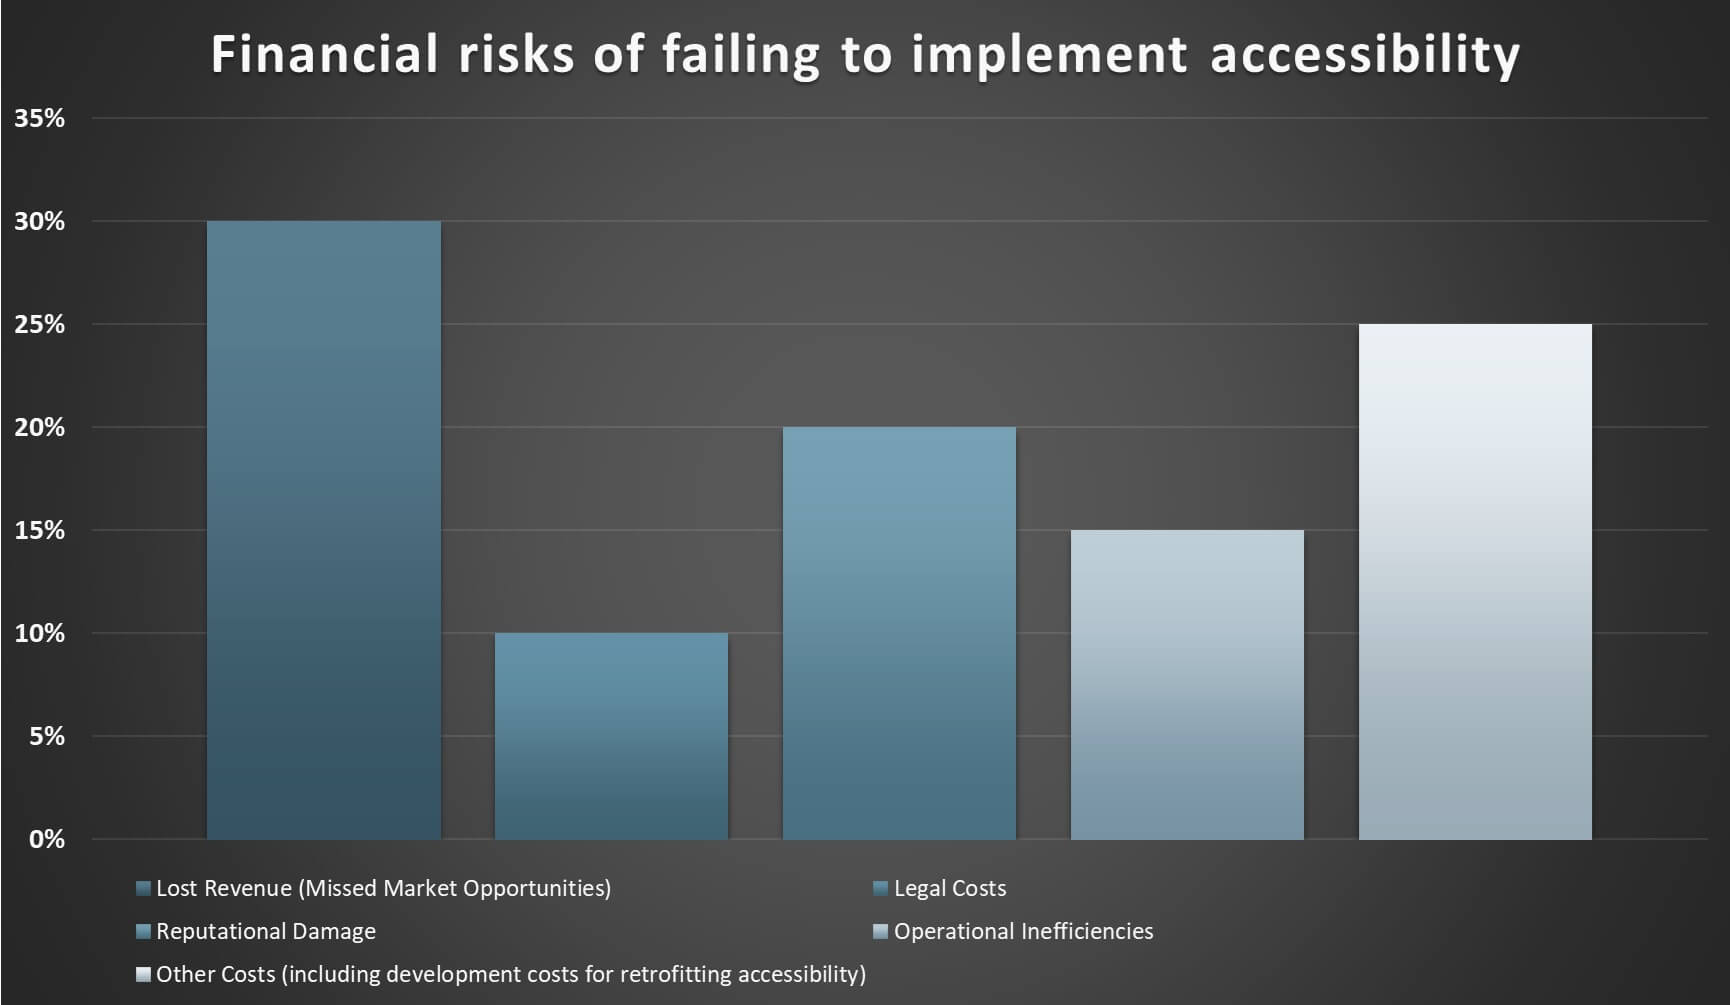
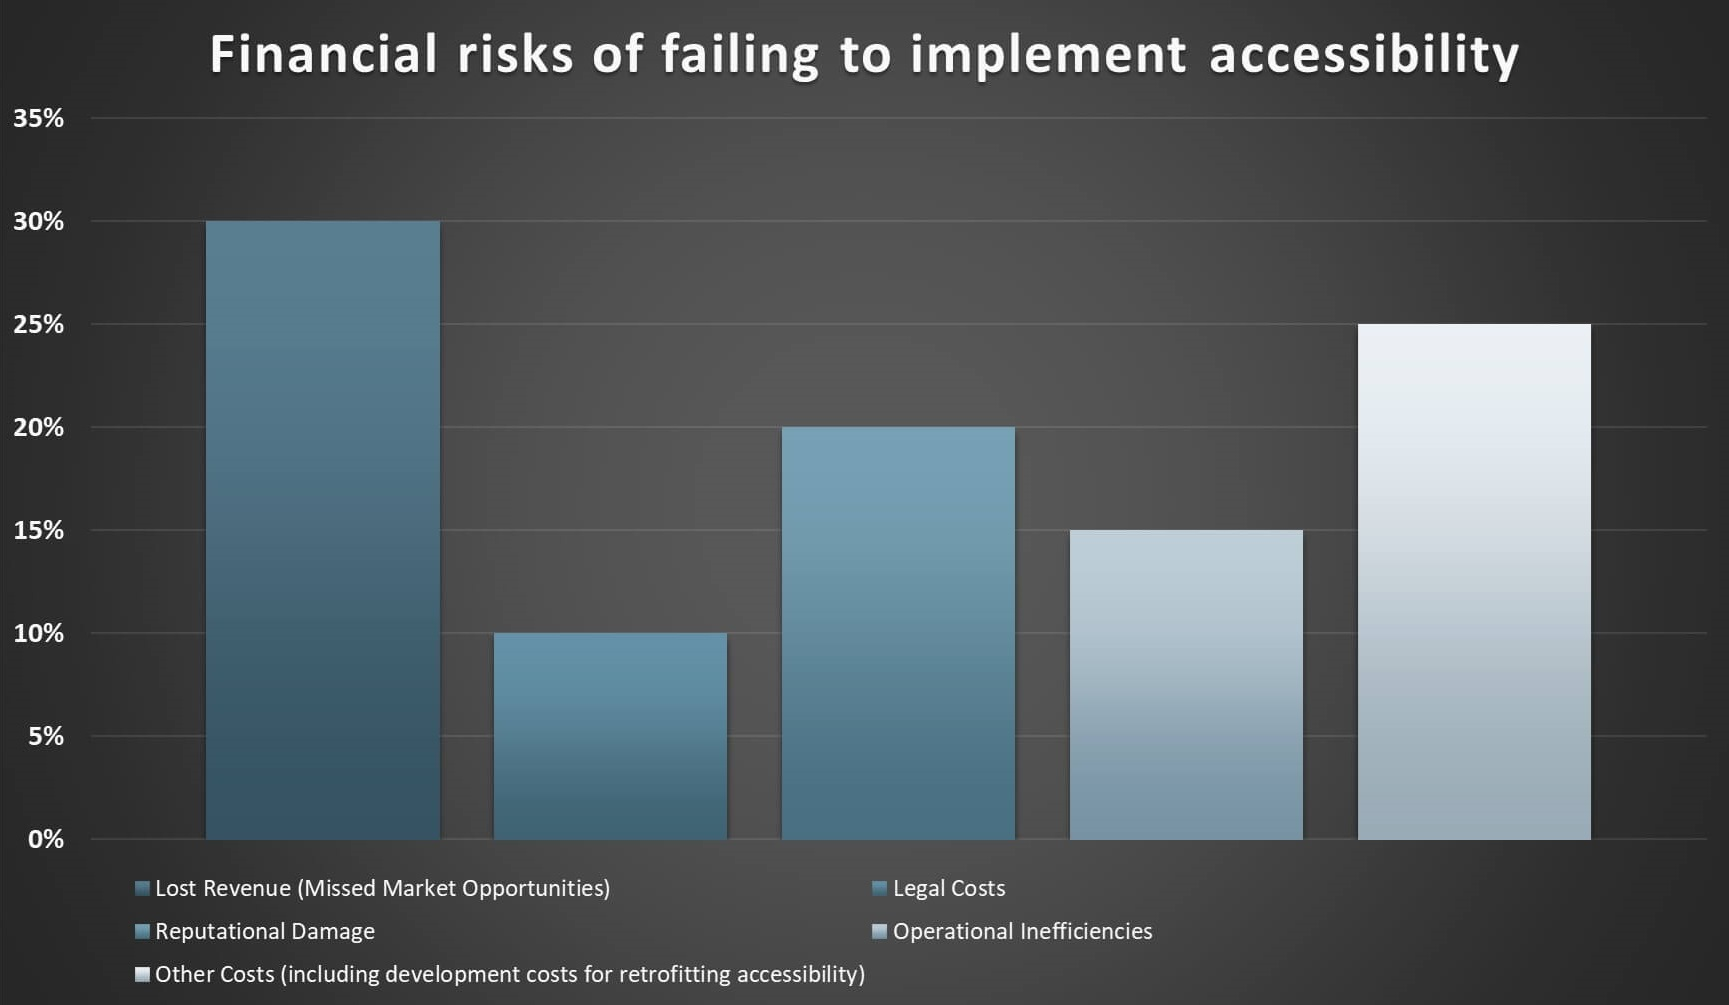
img for dark mode

diff --git a/src/pages/images/functionalImages/FunctionalImages.tsx b/src/pages/images/functionalImages/FunctionalImages.tsx
@@ -20,10 +20,18 @@ const FunctionalImages: FC = () => (
     </PageBanner>
     <article>
       <Figure>
-        <img
-          src="img/risks_light.jpg"
-          alt="Bar graph of financial risks of failing to implement accessibility with text description below."
-        />
+        <picture>
+          <source
+            srcSet="img/risks_dark.jpg"
+            media="(prefers-color-scheme: dark)"
+          />
+
+          <img
+            src="img/risks_light.jpg"
+            alt="Bar graph of financial risks of failing to implement accessibility with text description below."
+          />
+        </picture>
+
         <Figcaption>
           <SourceLinks />
           <BottomLinks
@@ -31,6 +39,7 @@ const FunctionalImages: FC = () => (
             textVersionContent={<Accordion accordionList={accordionList} />}
             mobileImageUrl="img/mobile/risks_light.jpg"
             mainImageUrl="img/risks_light.jpg"
+            mainImageUrlDark="img/risks_dark.jpg"
             altText="Bar graph of financial risks of failing to implement accessibility with text description below."
           />
         </Figcaption>

diff --git a/src/components/BottomLinks.tsx b/src/components/BottomLinks.tsx
@@ -8,6 +8,7 @@ interface BottomLinksProps {
   altText: string;
   dialogHeaderText: string;
   mainImageUrl: string;
+  mainImageUrlDark: string;
   mobileImageUrl: string;
   textVersionContent: ReactNode;
 }
@@ -18,9 +19,10 @@ const BottomLinks: FC<BottomLinksProps> = ({
   textVersionContent,
   mobileImageUrl,
   mainImageUrl,
+  mainImageUrlDark,
 }) => {
-  const { small } = variables;
-  const mediumWidth = `(max-width:${small})`;
+  const { medium } = variables;
+  const mediumWidth = `(max-width:${medium})`;
   return (
     <div className="bottom-links">
       <TriggerDialog
@@ -42,6 +44,10 @@ const BottomLinks: FC<BottomLinksProps> = ({
       >
         <picture>
           <source media={mediumWidth} srcSet={mobileImageUrl} />
+          <source
+            srcSet={mainImageUrlDark}
+            media="(prefers-color-scheme: dark)"
+          />
           <img src={mainImageUrl} alt={altText} />
         </picture>
       </TriggerDialog>

diff --git a/src/pages/commonPages/Home.tsx b/src/pages/commonPages/Home.tsx
@@ -76,6 +76,7 @@ const Home: FC = () => {
               textVersionContent={
                 <Table caption="Kind of Disabilities" data={data} />
               }
+              mainImageUrlDark="img/inclusive_activity_cards_dark.jpg"
             />
           </Figcaption>
         </Figure>
